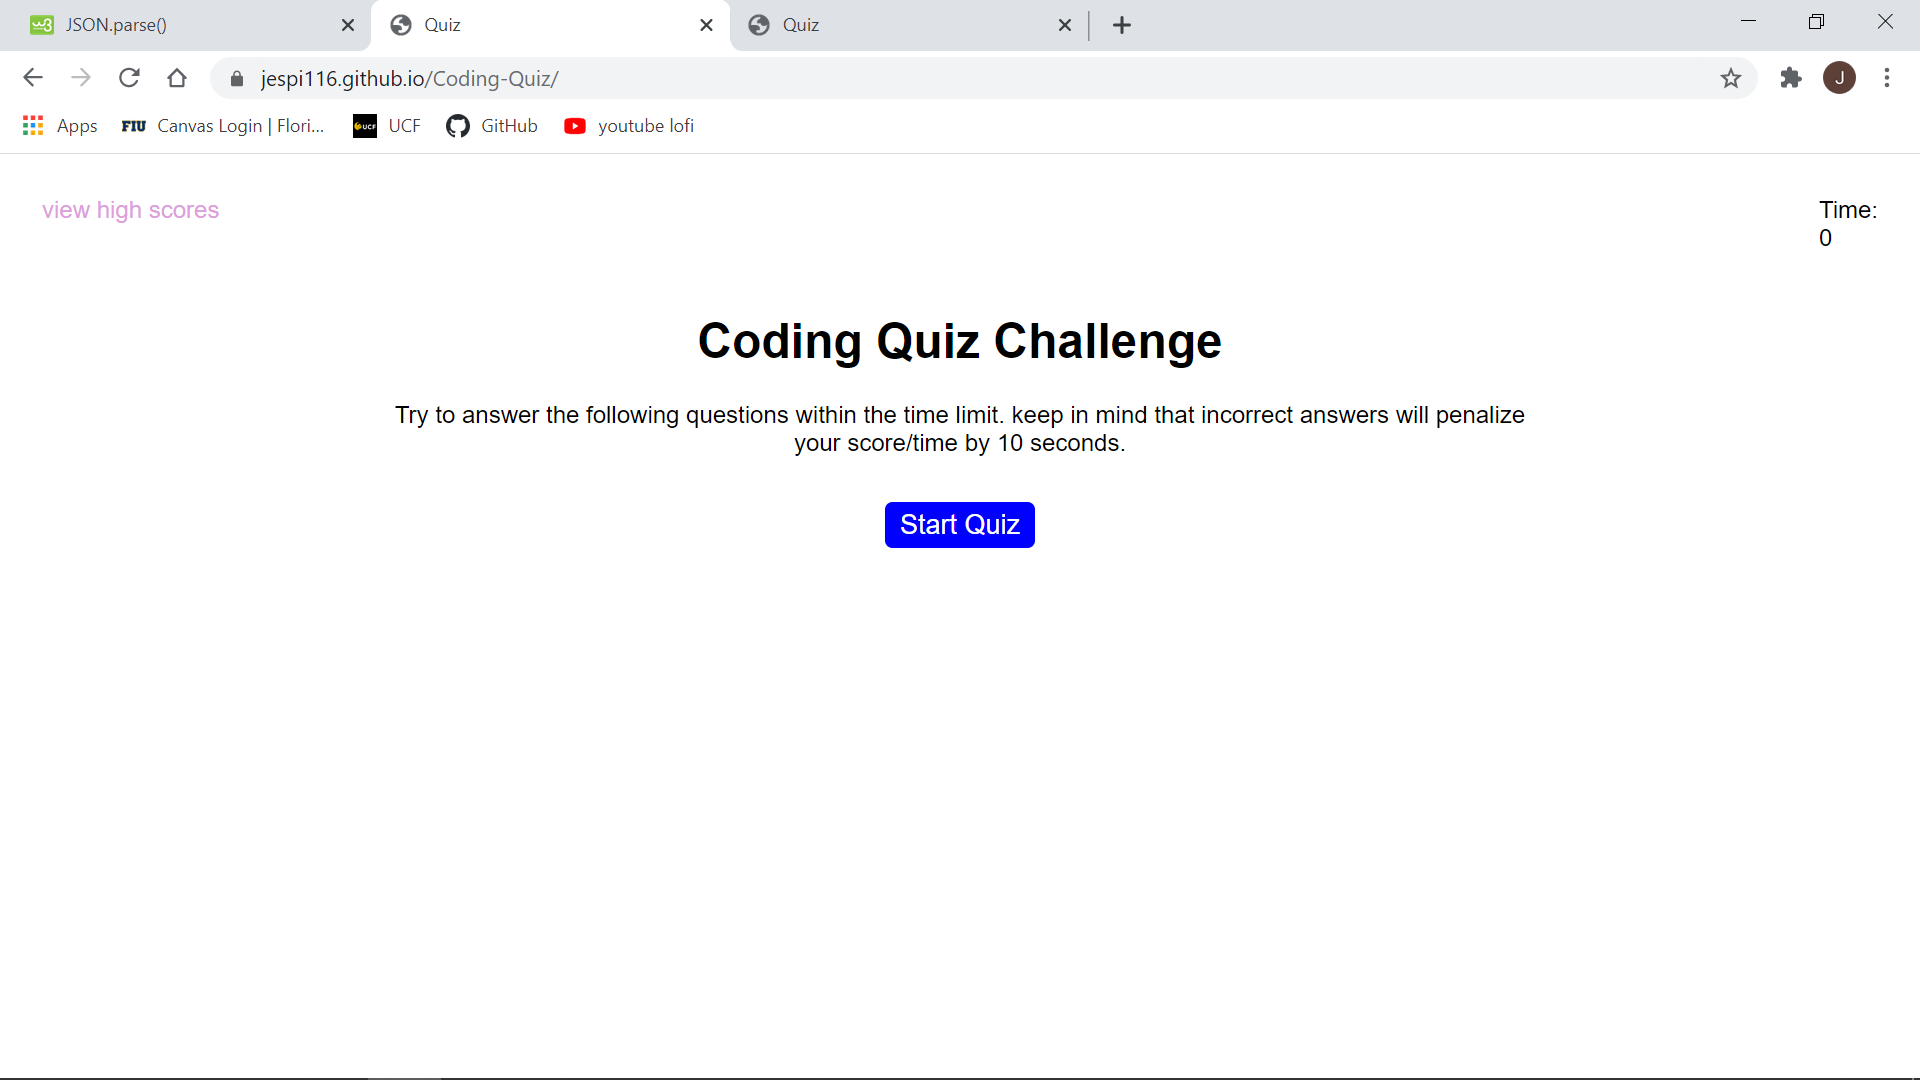
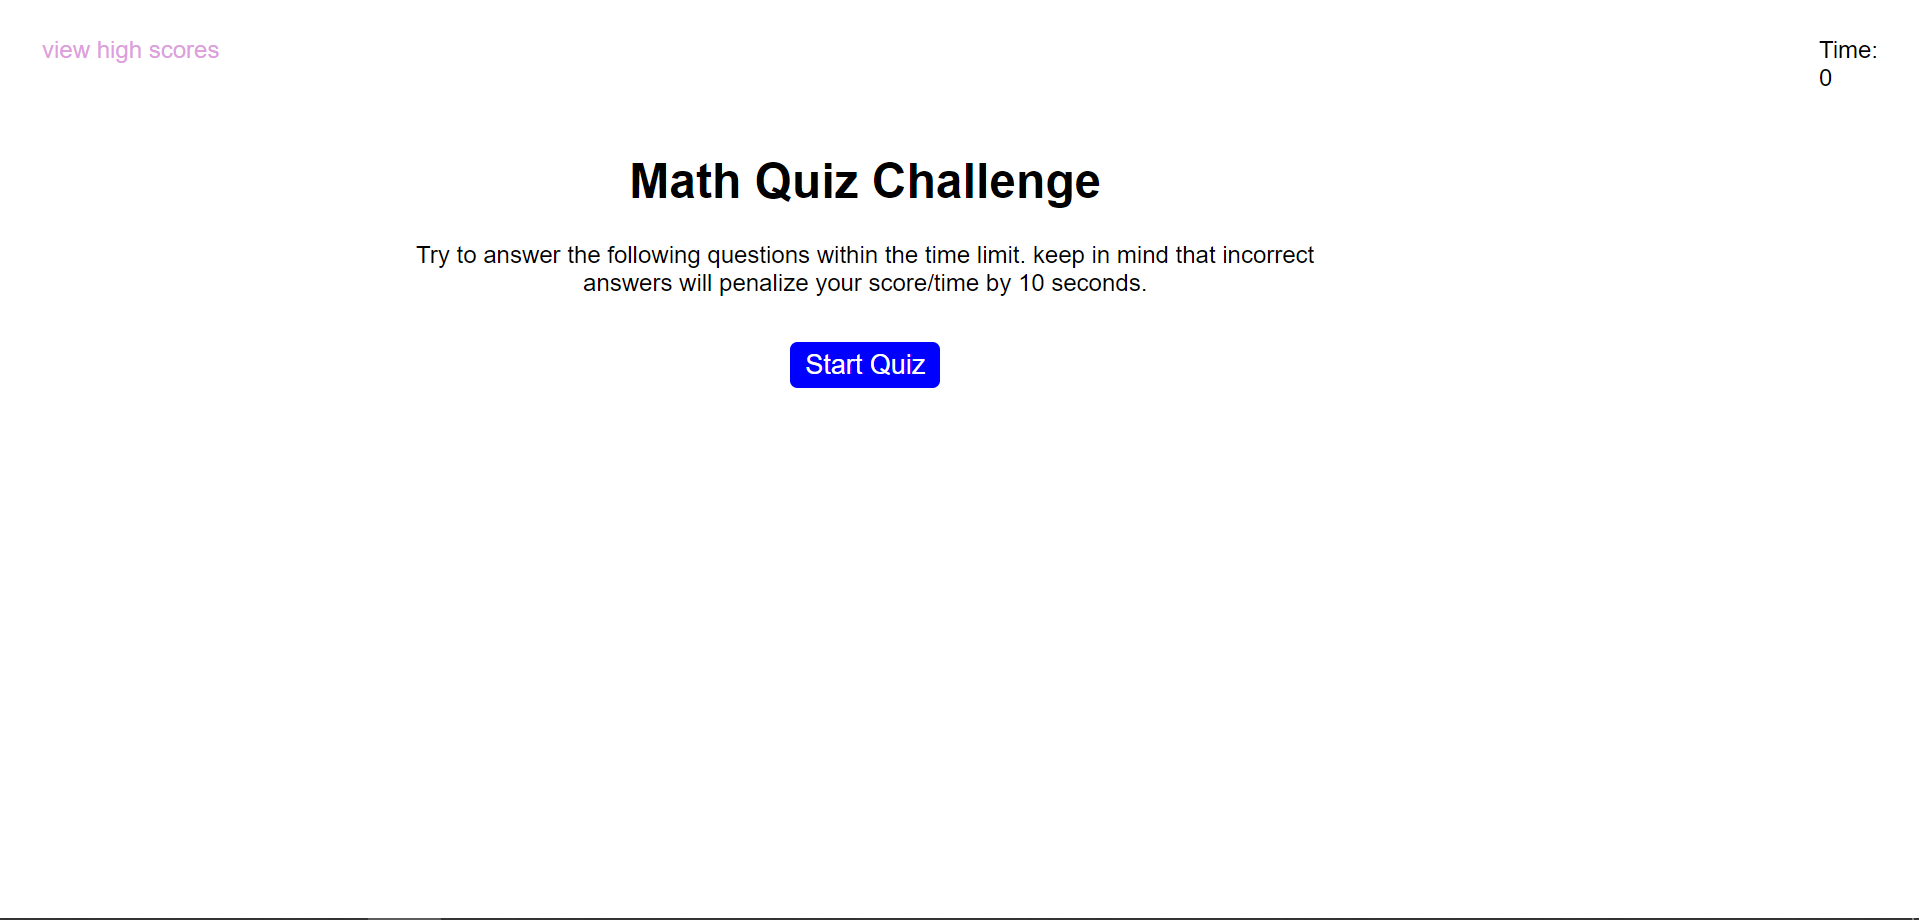
finishing touches

diff --git a/index.html b/index.html
@@ -19,7 +19,7 @@
     <div class="container">
         <div id="start">
             <div>
-                <h1 class="question">Coding Quiz Challenge</h1>
+                <h1 class="question">Math Quiz Challenge</h1>
             </div>
             <div class="description">
                 Try to answer the following questions within the time limit. keep in mind that incorrect answers will penalize your score/time by 10 seconds.

diff --git a/assets/css/style.css b/assets/css/style.css
@@ -23,7 +23,7 @@ header {
 
 .container {
     display: flex;
-    width: 60%;
+    width: 50%;
     margin-left: 20%;
     text-align: center;
 }
@@ -71,7 +71,7 @@ header {
 
 .highscores {
     width: 40%;
-    margin: 200px auto;
+    margin: 150px auto;
     
 }
 
